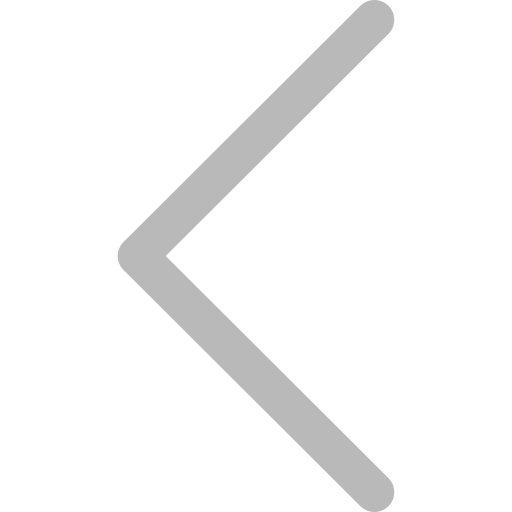
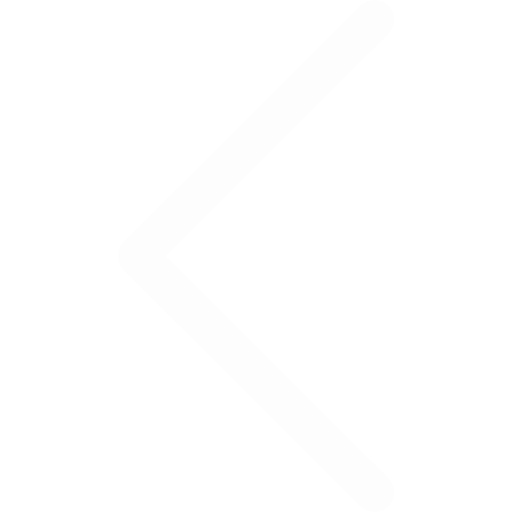
карусель готова за винятком  логіки кнопок 16.04 19.57 РОБОЧА

Changed region(s): [[0.2188, 0.0, 0.7812, 1.0]]

diff --git a/src/components/movies-list/kk/styles.css b/src/components/movies-list/kk/styles.css
@@ -1,0 +1,26 @@
+.tower {
+    position: relative; /* Оболочка с относительным позиционированием, для абсолютного позиционирования других элементов */
+}
+
+/* Внешний вид */
+.round {
+    position: absolute; /* Позиционируем абсолютно по оболочке. В этом случае позиции можно не указывать */
+    width: 70px; /* Ширина */
+    height: 70px; /* Высота */
+    border: 4px solid hsl(5, 40%, 70%); /* Рамка */
+    border-radius: 50%/50%; /* Делаем рамку круглой */
+    background: linear-gradient(top, hsl(0, 90%, 90%), hsl(0, 100%, 50%) 80%);
+    background: -webkit-linear-gradient(top, hsl(0, 90%, 90%), hsl(0, 100%, 50%) 80%); /* Фоновый цвет - линейный градиент. Цвет задан в формате hsl, но можно задать в любом доступном в веб формате */
+    сursor: pointer; /* Курсор в виде ладошки */
+    transform: rotate(30deg); /* Поворачиваем на 30 градусов */
+}
+
+/* Эффект при нажатии */
+.round:active { /* Добавляем псевдокласс :active */
+    width: 69px; /* Уменьшаем ширину */
+    height: 69px; /* Уменьшаем высоту */
+    box-shadow: 0 0 hsl(5, 60%, 60%); /* Уменьшаем тень */
+    border: 3px solid hsl(5, 40%, 70%); /* Уменьшаем толщину рамки */
+    background: linear-gradient(top, hsl(0, 90%, 90%), hsl(0, 100%, 50%) 90%);
+    background: -webkit-linear-gradient(top, hsl(0, 90%, 90%), hsl(0, 100%, 50%) 90%); /* Изменяем значения линейного градиента */
+}

diff --git a/src/components/movies-list/MoviesList.module.css b/src/components/movies-list/MoviesList.module.css
@@ -1,4 +1,4 @@
-.tapeMovies{
+.tapeMovies {
     display: flex;
     flex-direction: row;
 }
@@ -16,6 +16,10 @@
     margin-right: -15px;
     height: 50px;
     width: 50px;
+
+    display: flex;
+    justify-content: center;
+    align-items: center;
 }
 
 .imgArrowRight, .imgArrowLeft {
@@ -35,20 +39,28 @@
     line-height: 24px;
     color: #444;
     display: block;
+
+    opacity: 0.7;
 }
 
 .arrow:focus {
     outline: none;
+
 }
 
 .arrow:hover {
     cursor: pointer;
+    opacity: 1;
 }
 
+.arrow>img:active {
+    width: 20px;
+    height: 29px;
+    /*background-color: red;*/
+}
+
+
 .prev {
-    /*left: 0;*/
-    /*margin-top: 95px;*/
-    /*margin-left: -17px;*/
     outline: none; /* Для синий ободки */
     border: 0;
     background: transparent;
@@ -58,13 +70,13 @@
 
 .next {
     right: 0;
-    /*margin-left: 0;*/
     outline: none; /* Для синьої обводки */
     border: 0;
     background: transparent;
     height: 50px;
     width: 50px;
 }
+
 /*///////////////////////////////*/
 
 
